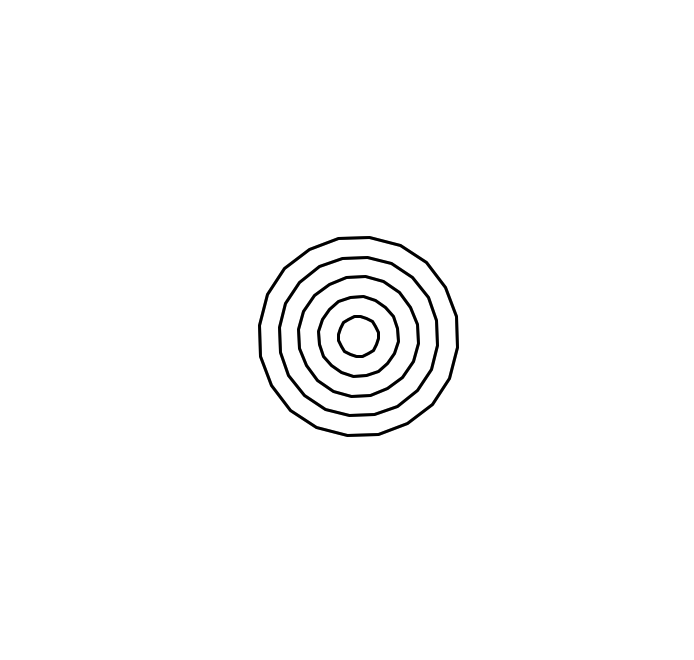
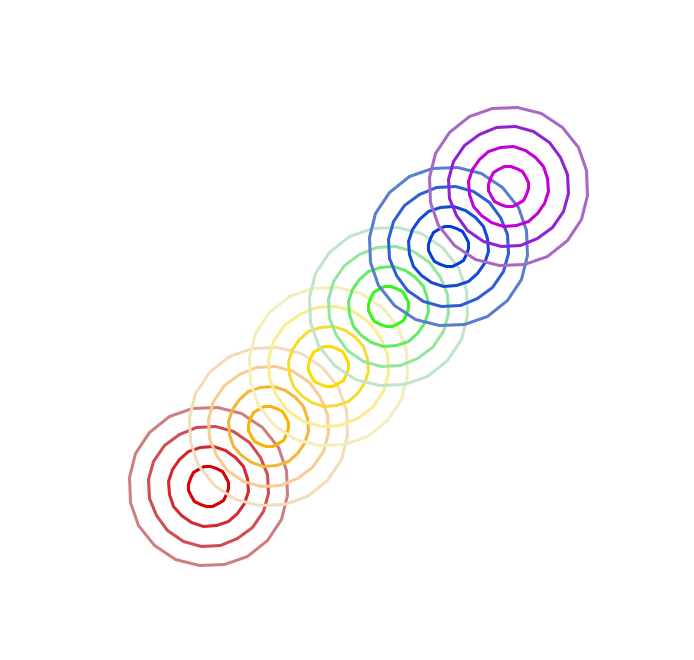
Update tartle18
- Added a color component to the concentric circles class

Changed region(s): [[0.1816, 0.1515, 0.8473, 0.8788]]

diff --git a/tartle18/tart.py b/tartle18/tart.py
@@ -47,11 +47,12 @@ details = [
 ]
 
 class ConcentricCircles:
-    def __init__(self, quantity, x_0, y_0):
+    def __init__(self, quantity, colors, x_0, y_0):
         self.turt = turtle.Turtle()
         self.frequency = math.pi/10
         self.phase = 2
         self.quantity = quantity
+        self.colors = colors
         self.x = x_0
         self.y = y_0
 
@@ -66,6 +67,7 @@ class ConcentricCircles:
     def draw(self):
         for c in range(1, self.quantity):
             diameter = c * 20
+            self.turt.color(self.colors[c-1])
             for angle in range(30):
                 x = self._calc_x(angle, diameter)
                 y = self._calc_y(angle, diameter)
@@ -88,9 +90,10 @@ class ConcentricCircles:
 
 
 def run():
-    circles = ConcentricCircles(6, 0, 0)
-    circles.setup()
-    circles.draw()
+    for deats in details:
+        circles = ConcentricCircles(5, deats['color'], deats['rotation'] - 150, deats['rotation'] - 150)
+        circles.setup()
+        circles.draw()
 
     img = ImageGrab.grab(bbox=bounds)
     img.save(this_dir + '/tartle18/tart.png', quality=95)
